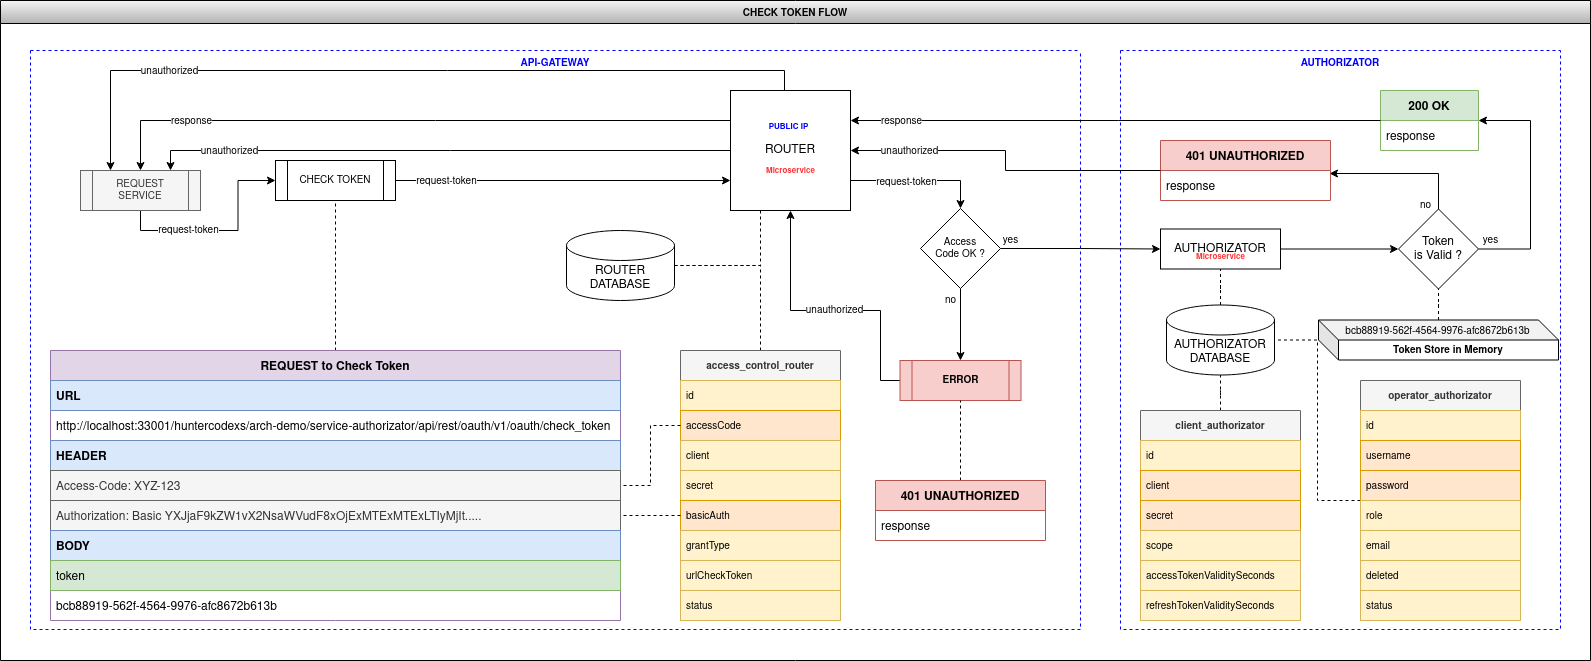
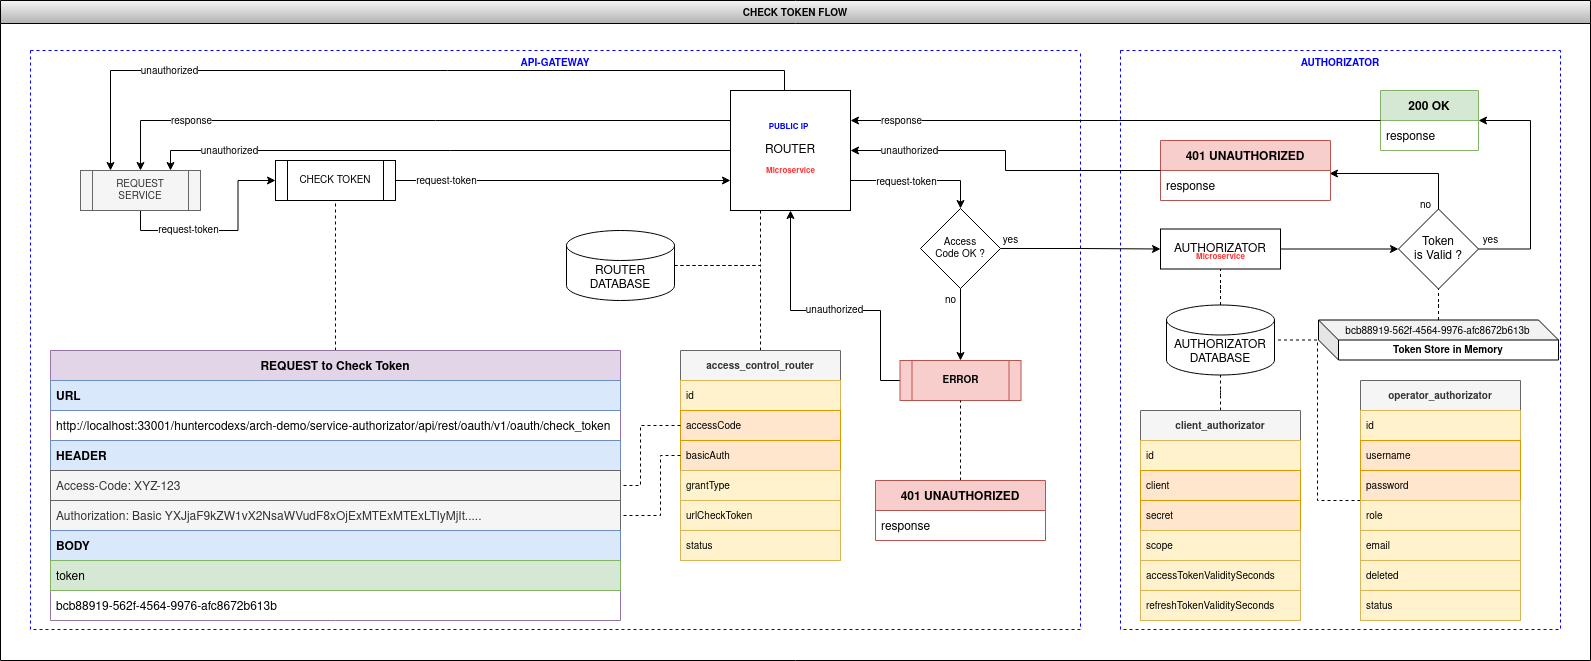
update: Fix database services and diagrams

Changed region(s): [[0.4004, 0.8169, 0.5544, 0.938], [0.4312, 0.7262, 0.4928, 0.7867], [0.4312, 0.6657, 0.462, 0.6959]]

diff --git a/microservices/service-router/src/main/java/com/huntercodexs/archdemo/router/config/filter/model/AccessControlRouterEntity.java b/microservices/service-router/src/main/java/com/huntercodexs/archdemo/router/config/filter/model/AccessControlRouterEntity.java
@@ -20,12 +20,6 @@ public class AccessControlRouterEntity {
     private String accessCode;
 
     @Column
-    private String client;
-
-    @Column
-    private String secret;
-
-    @Column
     private String basicAuth;
 
     @Column

diff --git a/microservices/service-rules/src/main/java/com/huntercodexs/archdemo/rules/RulesApplication.java b/microservices/service-rules/src/main/java/com/huntercodexs/archdemo/rules/RulesApplication.java
@@ -13,4 +13,5 @@ public class RulesApplication {
 	public static void main(String[] args) {
 		SpringApplication.run(RulesApplication.class, args);
 	}
+
 }

diff --git a/README.md b/README.md
@@ -299,6 +299,34 @@ Isso permite ocultar tanto o endpoint real dos microserviços como também a por
 
 # Como usar
 
+Para usar esse projeto, seja como iniciador de um ambiente, seja para testes, seja para apresentações de trabalhos 
+academicos ou escolares ou para qualquer outro proposito no ramo de softwares, siga as instruções abaixo:
+
+- Clonar o projeto em uma maquina local:
+
+<pre>
+git clone https://github.com/huntercodexs/arch-demo.git
+</pre>
+
+Veja que foi criada uma pasta chamada arch-demo, na qual esta contido os projetos de exemplo, midias e documentos, assim 
+como o arquivo POSTMAN para testes.
+
+Dentro da pasta arch-demo/microservices temos os serviços de exemplo: SERVICE-DISCOVERY, SERVICE-ROUTER, SERVICE-RULES, 
+SERVICE-AUTHORIZATOR e SERVICE-DEMO. Todos eles são apenas para exemplificar o ambiente podendo ser executados 
+imediatamente após o carregamento do projeto em uma IDEA (exemplo: IntelliJ).
+
+** Ainda teremos que configurar o projeto para rodar no ambinte seguro com o uso de containers docker
+
+Abaixo podemos ver os micro-serviços registrados no SERVICE-DISCOVERY (Eureka) os quais estão disponiveis para serem 
+acessador via ROUTER.
+
+![img.png](midias/service-discovery-sample.png)
+
+Outro ponto importante é a base de dados dedicadas para cada serviço, não tendo vinculos entre as mesmas, o que poderia 
+causar confusão ja que estamos falando de microserviços. Na figura abaixo temos uma imagem desse cenário:
+
+![img.png](midias/arch-demo-databases.png)
+
 
 # Atualizações
 

diff --git a/README-EN.md b/README-EN.md
@@ -301,6 +301,33 @@ This allows hiding both the real endpoint of the microservices as well as the po
 
 # How to use
 
+To use this project, either as an environment initiator, for testing, or for presentations of work
+academic or school or for any other purpose in the field of software, follow the instructions below:
+
+- Clone the project on a local machine:
+
+<pre>
+git clone https://github.com/huntercodexs/arch-demo.git
+</pre>
+
+See that a folder called arch-demo was created, in which the example projects, media and documents are contained, as well as
+as the POSTMAN file for testing.
+
+Inside the arch-demo/microservices folder we have the example services: SERVICE-DISCOVERY, SERVICE-ROUTER, SERVICE-RULES,
+SERVICE-AUTHORIZATOR and SERVICE-DEMO. All of them are just to exemplify the environment that can be executed
+immediately after loading the project into an IDEA (example: IntelliJ).
+
+** We will still have to configure the project to run in a secure environment using docker containers
+
+Below we can see the microservices registered in SERVICE-DISCOVERY (Eureka) which are available to be
+accessor via ROUTE.
+
+![img.png](midias/service-discovery-sample.png)
+
+Another important point is the dedicated database for each service, with no links between them, which could
+cause confusion since we're talking about microservices. The figure below shows an image of this scenario:
+
+![img.png](midias/arch-demo-databases.png)
 
 # Updates
 
